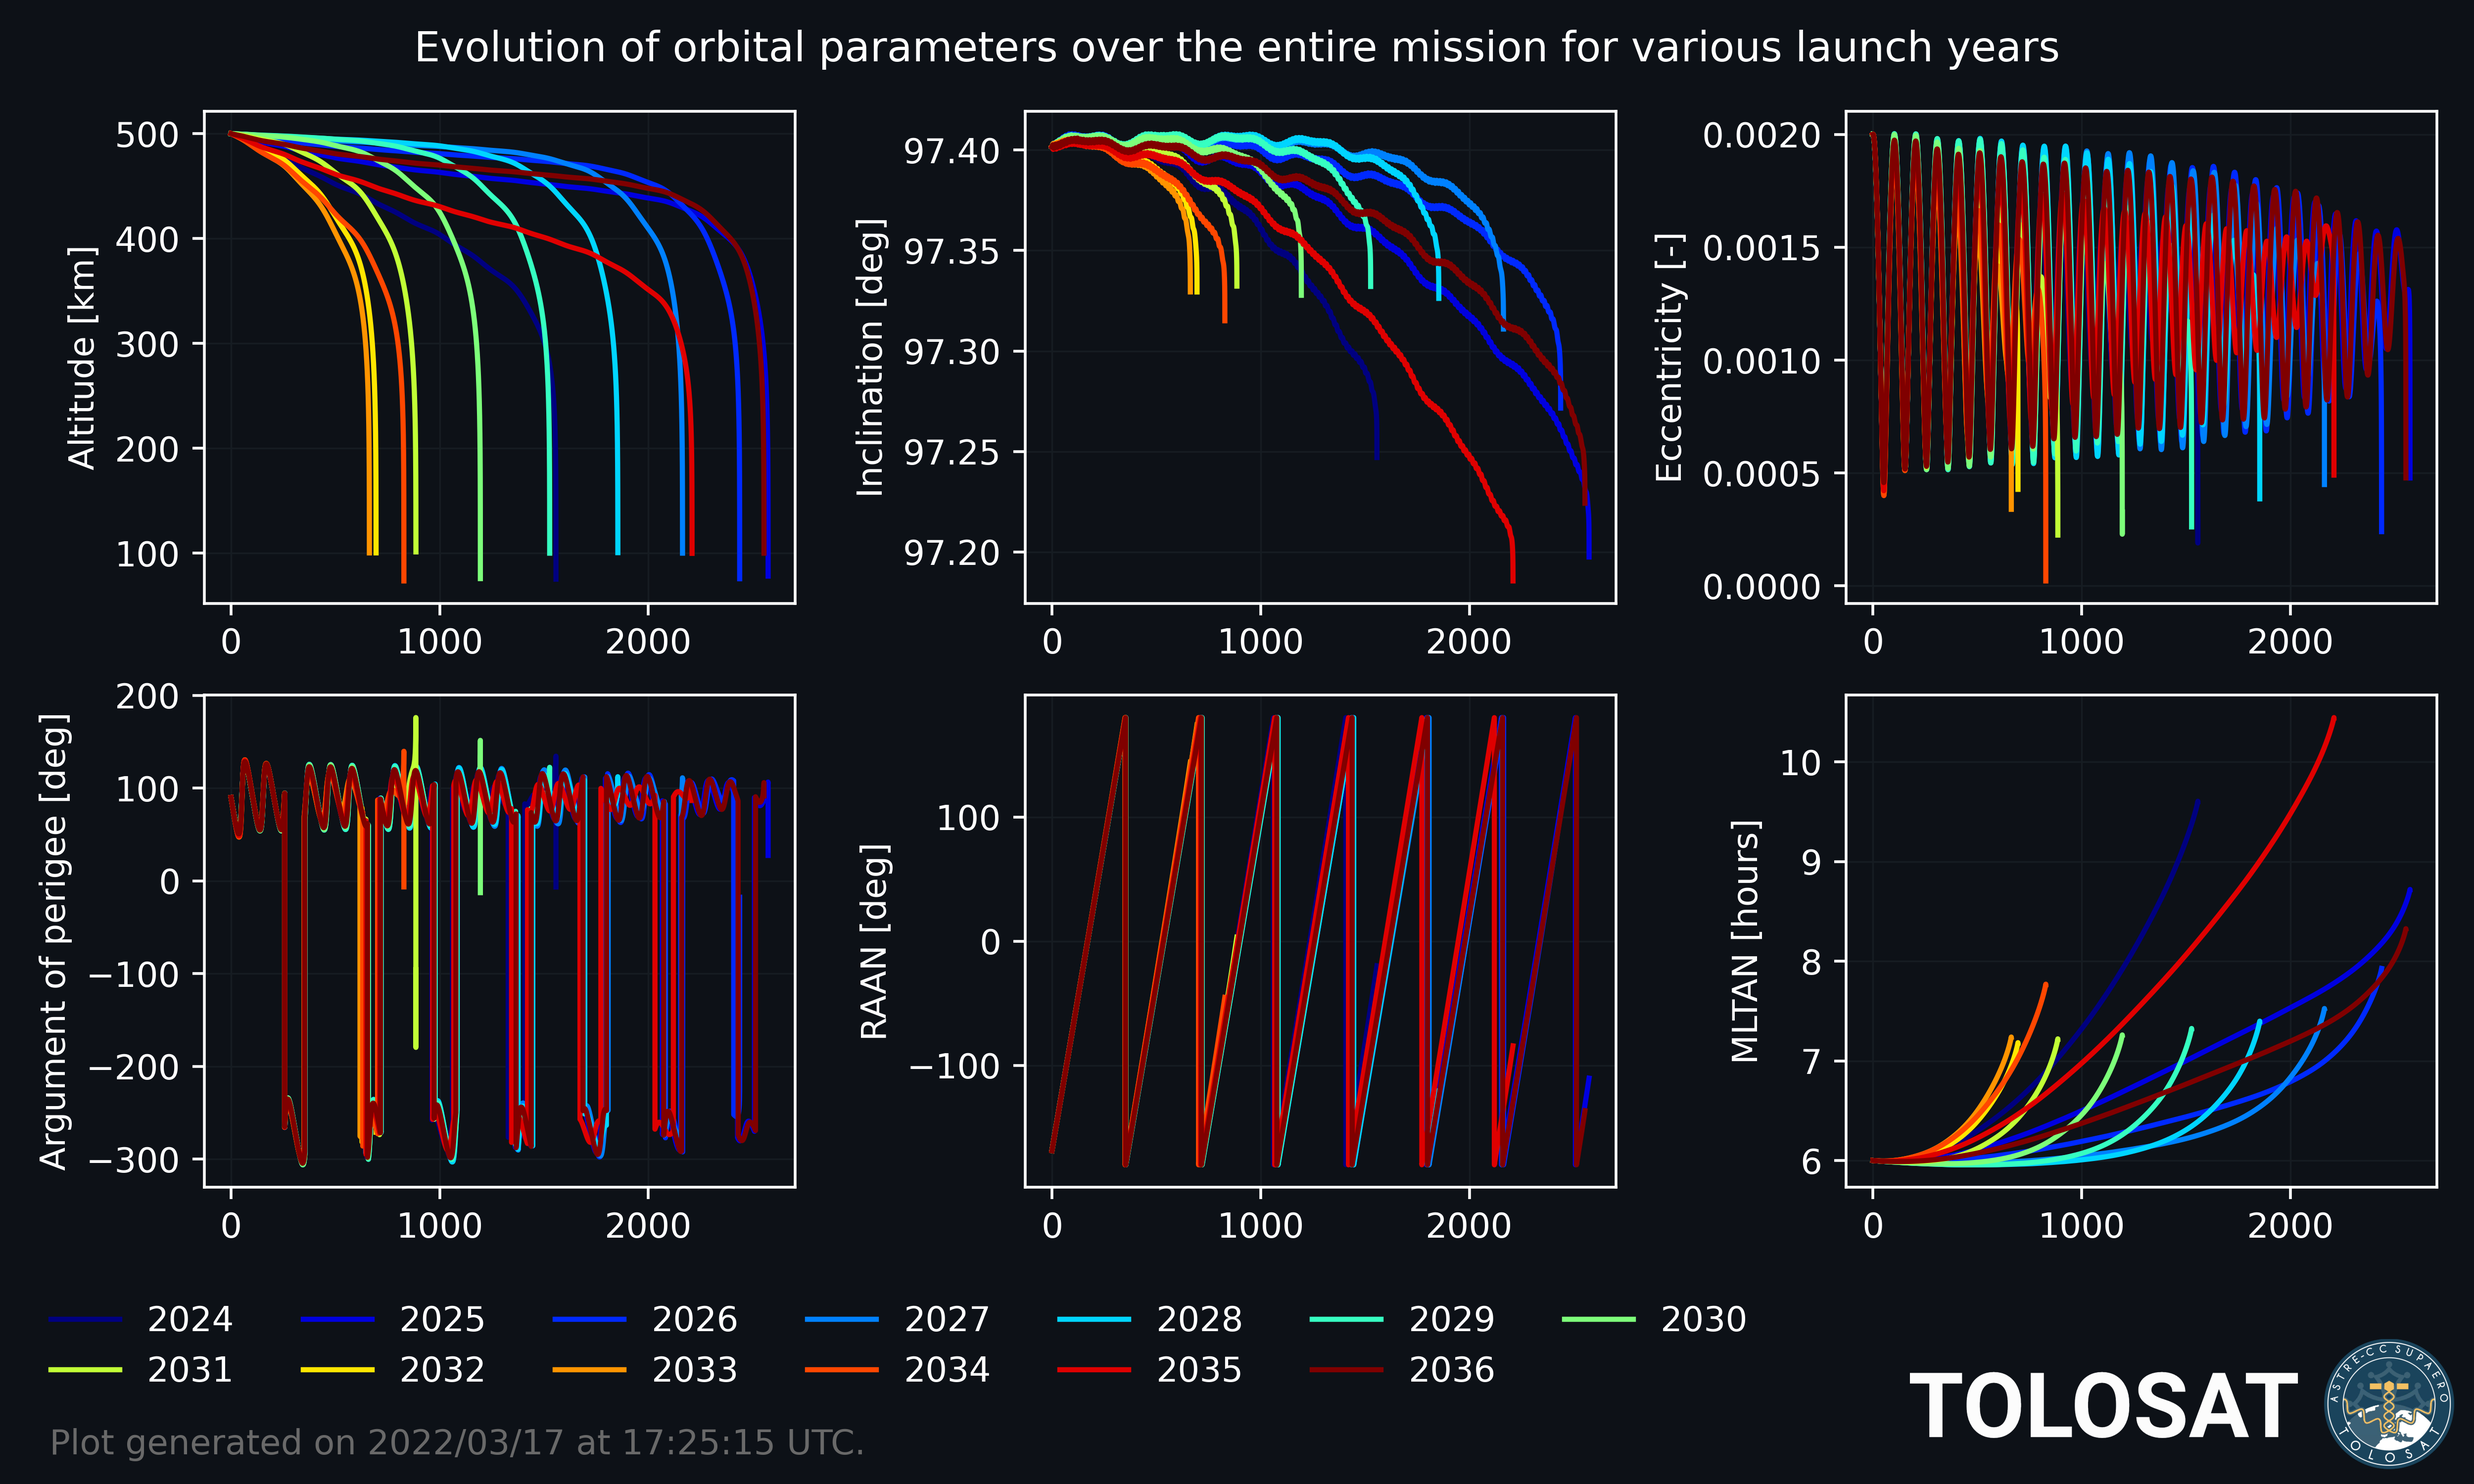
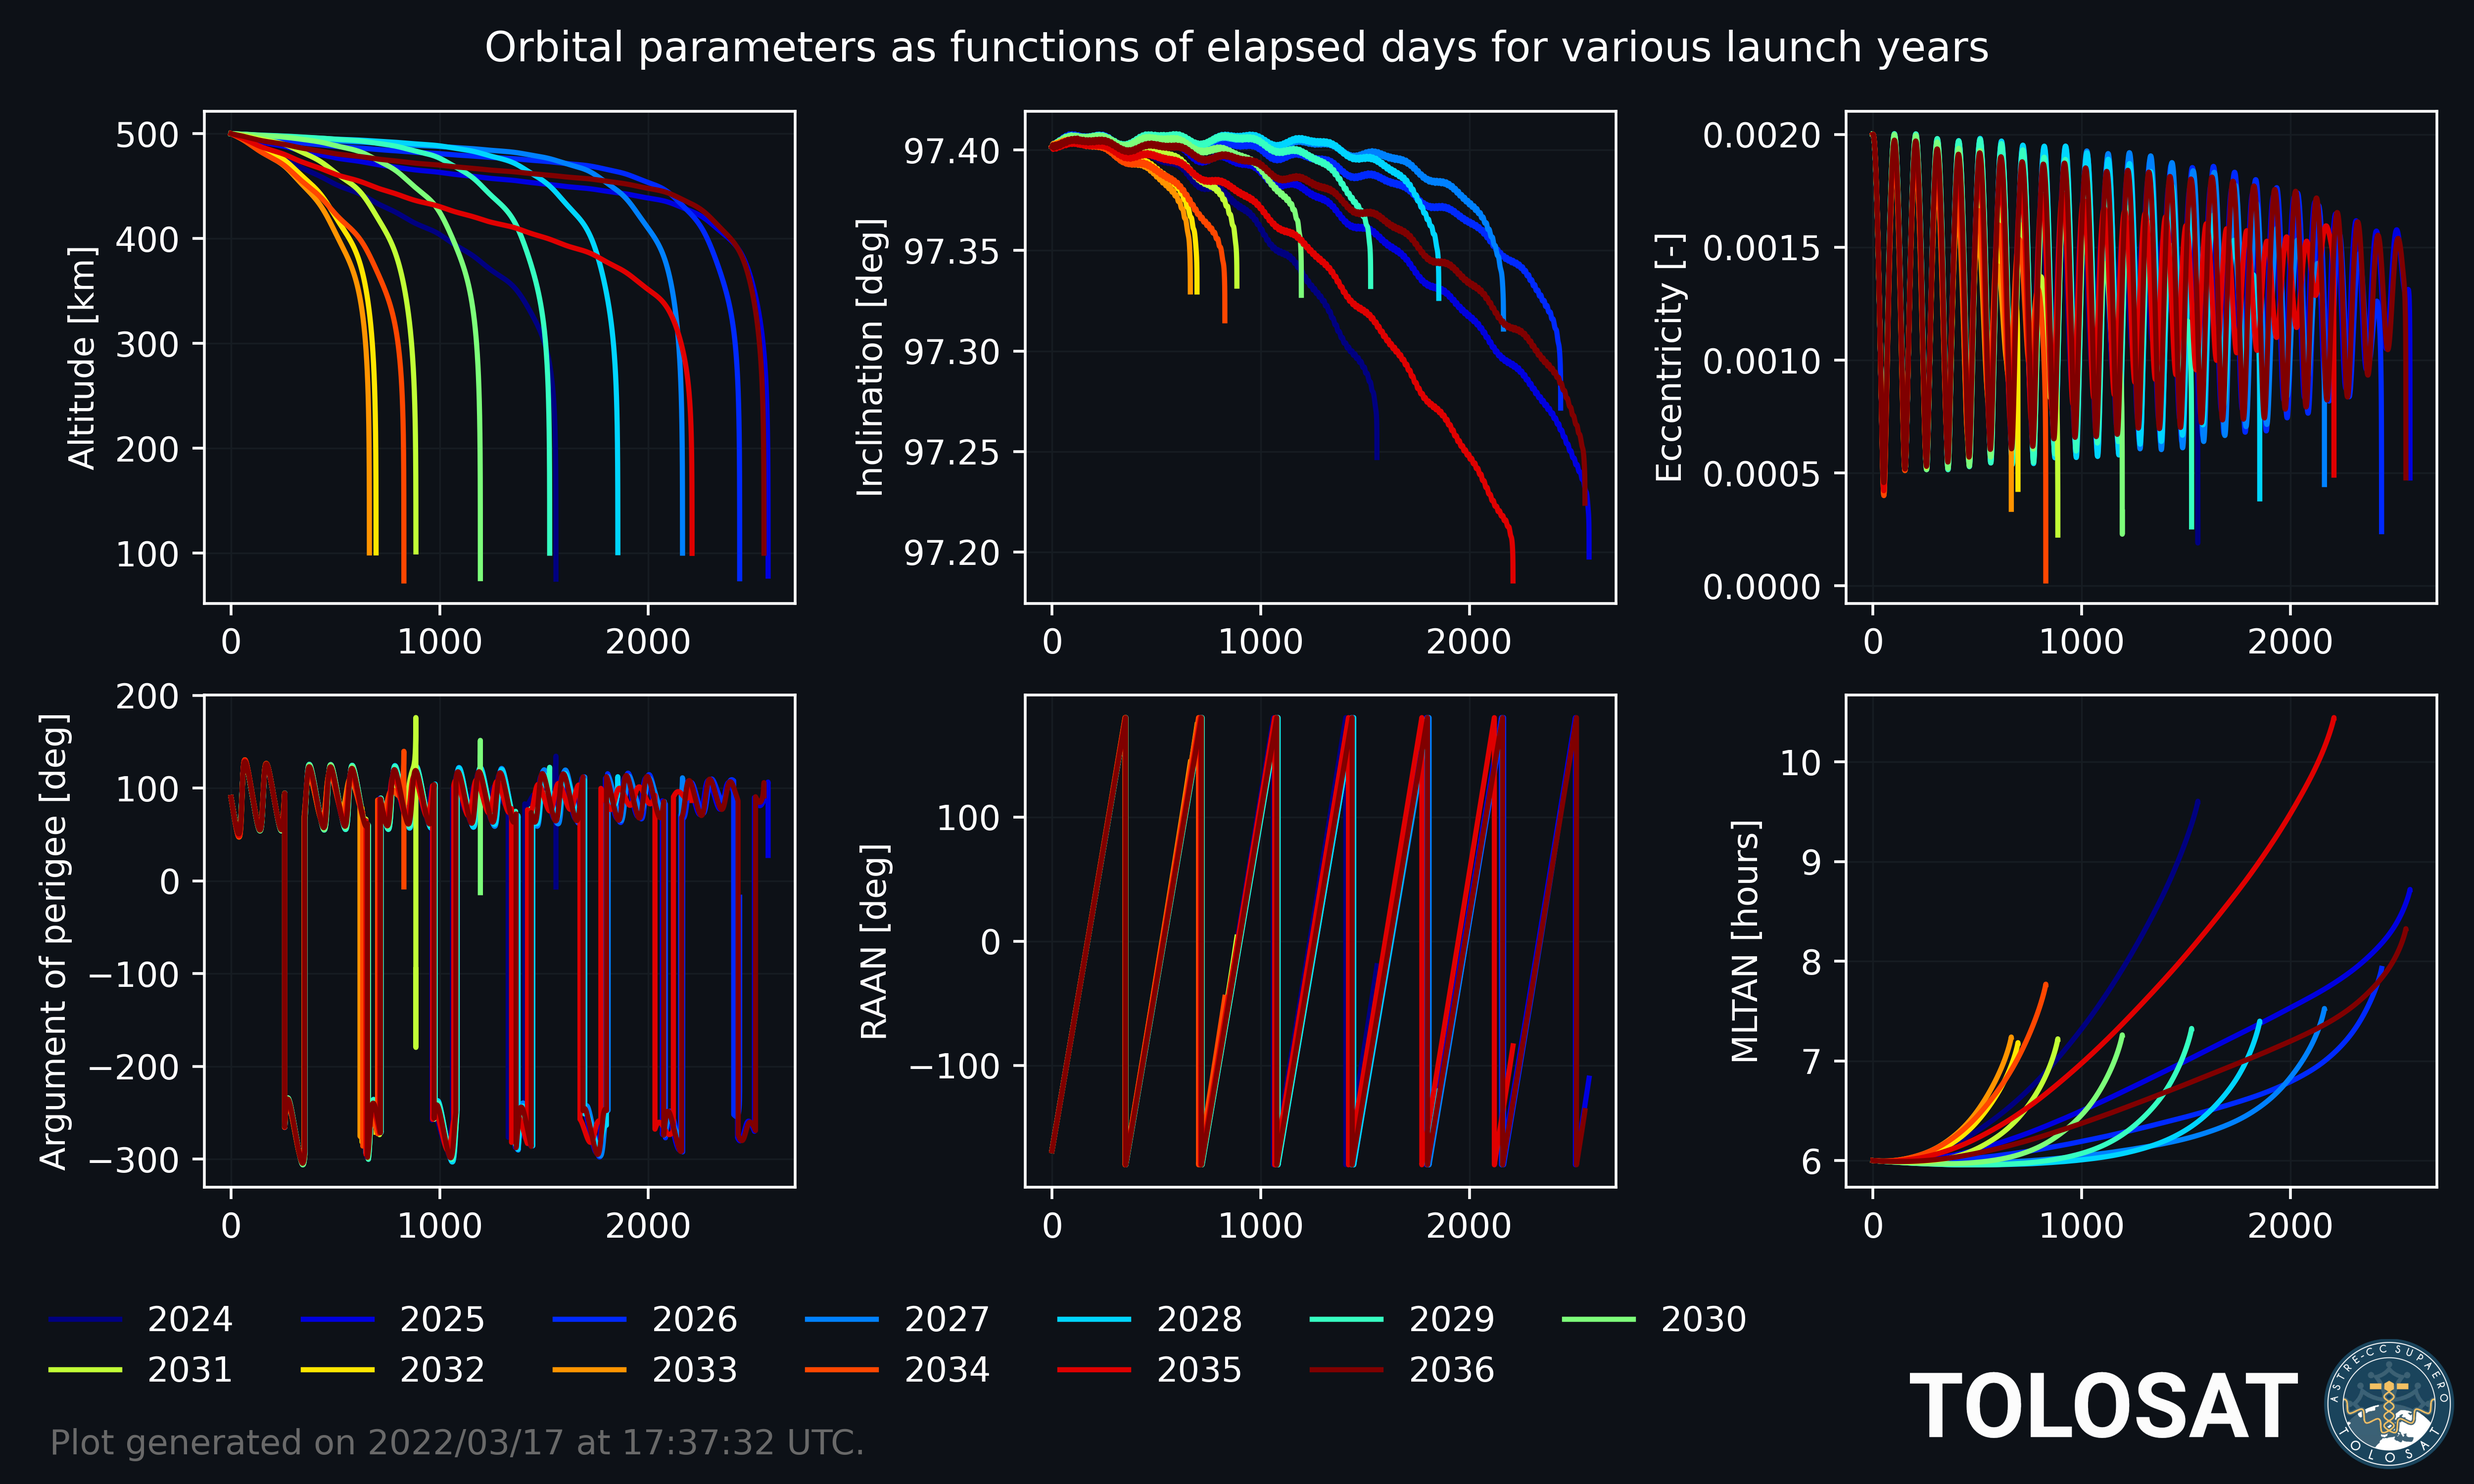
Updated plot

Changed region(s): [[0.1872, 0.0, 0.8112, 0.062], [0.2808, 0.961, 0.312, 0.992]]

diff --git a/PythonPlots/LaunchYearMissionDuration.py b/PythonPlots/LaunchYearMissionDuration.py
@@ -42,7 +42,7 @@ axes[2].set(ylabel="Eccentricity [-]")
 axes[3].set(ylabel="Argument of perigee [deg]")
 axes[4].set(ylabel="RAAN [deg]")
 axes[5].set(ylabel="MLTAN [hours]")
-plt.suptitle("Evolution of orbital parameters over the entire mission for various launch years", color='white')
+plt.suptitle("Orbital parameters as functions of elapsed days for various launch years", color='white')
 handles, _ = axes[5].get_legend_handles_labels()
 handles, labels = flip_legend(7, False, handles, [str(int(x)) for x in flatten(years.tolist())])
 F1.legend(handles, labels, loc=(0.015, 0.055), ncol=7, frameon=False,
